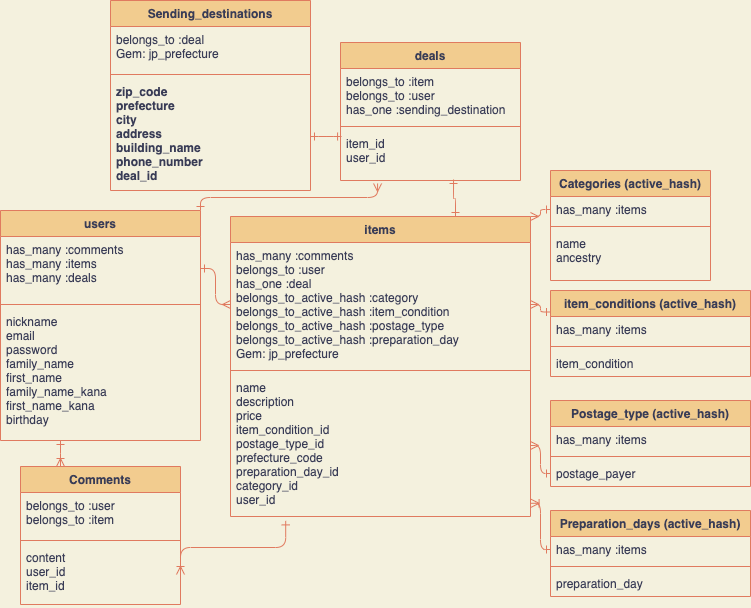
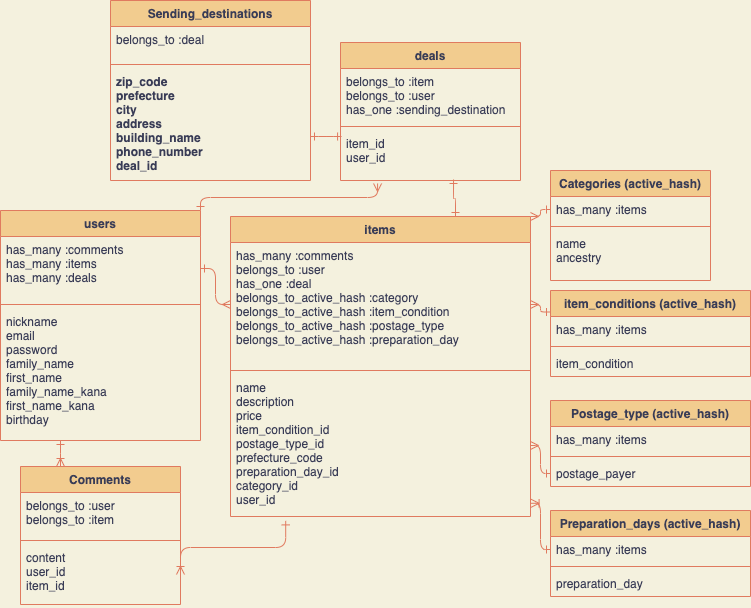
active_hashテーブルの削除

Changed region(s): [[0.1531, 0.0625, 0.3981, 0.3125], [0.3063, 0.5625, 0.4594, 0.5938]]

diff --git a/README.md b/README.md
@@ -6,7 +6,7 @@
 | price             | integer    | null: false                    |
 | item_condition_id | integer    | null: false                    |
 | postage_type      | integer    | null: false                    |
-| prefecture_code   | integer    | null: false                    |
+| prefecture        | integer    | null: false                    |
 | preparation_day   | integer    | null: false                    |
 | category_id       | integer    | null: false                    |
 | user              | references | null: false, foreign_key: true |
@@ -55,7 +55,7 @@
 | Column          | Type       | Options                        |
 | --------------- | ---------- | ------------------------------ |
 | zip_code        | string     | null: false                    |
-| prefecture      | string     | null: false                    |
+| prefecture      | integer    | null: false                    |
 | city            | string     | null: false                    |
 | address         | string     | null: false                    |
 | building_number | string     |                                |
@@ -75,40 +75,3 @@
 - belongs_to :item
 - belongs_to :user
 - has_one :sending_destination
-
-
-
-## categoriesテーブル (active_hash)
-| Column   | Type   | Options     |
-| -------- | ------ | ----------- |
-| name     | string | null: false |
-| ancestry | string | null: false |
-### Association
-- has_many :items
-
-
-
-## item_conditionsテーブル (active_hash)
-| Column         | Type   | Options     |
-| -------------- | ------ | ----------- |
-| item_condition | string | null: false |
-### Association
-- has_many :items
-
-
-
-## postage_typesテーブル (active_hash)
-| Column       | Type   | Options     |
-| ------------ | ------ | ----------- |
-| postage_type | string | null: false |
-### Association
-- has_many :items
-
-
-
-## preparation_daysテーブル (active_hash)
-| Column          | Type   | Options     |
-| --------------- | ------ | ----------- |
-| preparation_day | string | null: false |
-### Association
-- has_many :items
